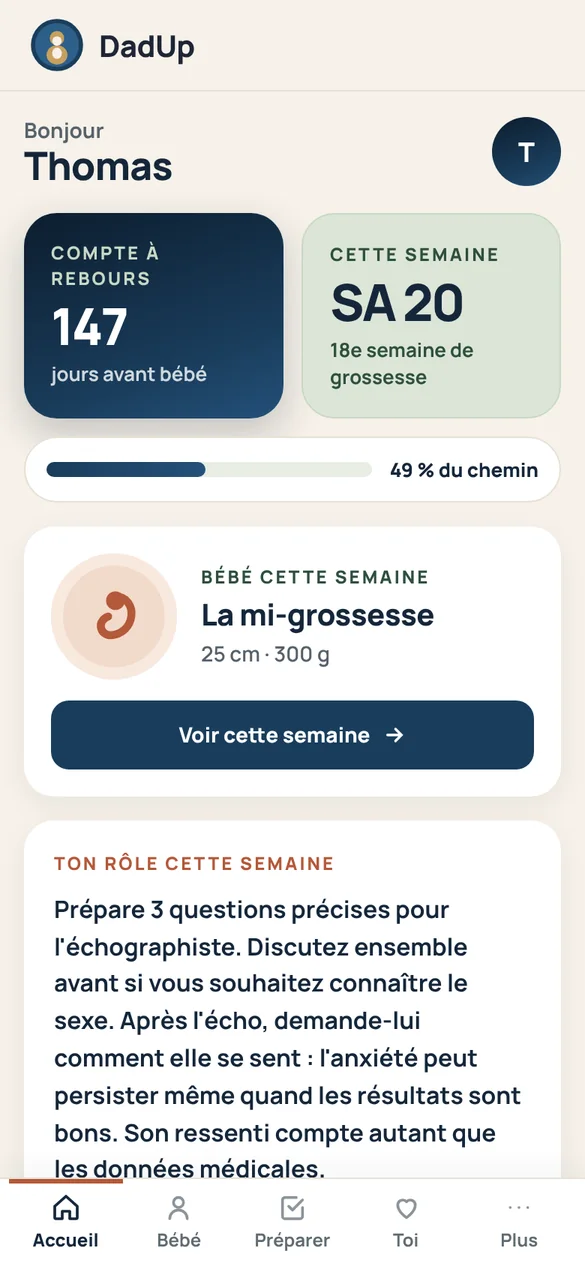
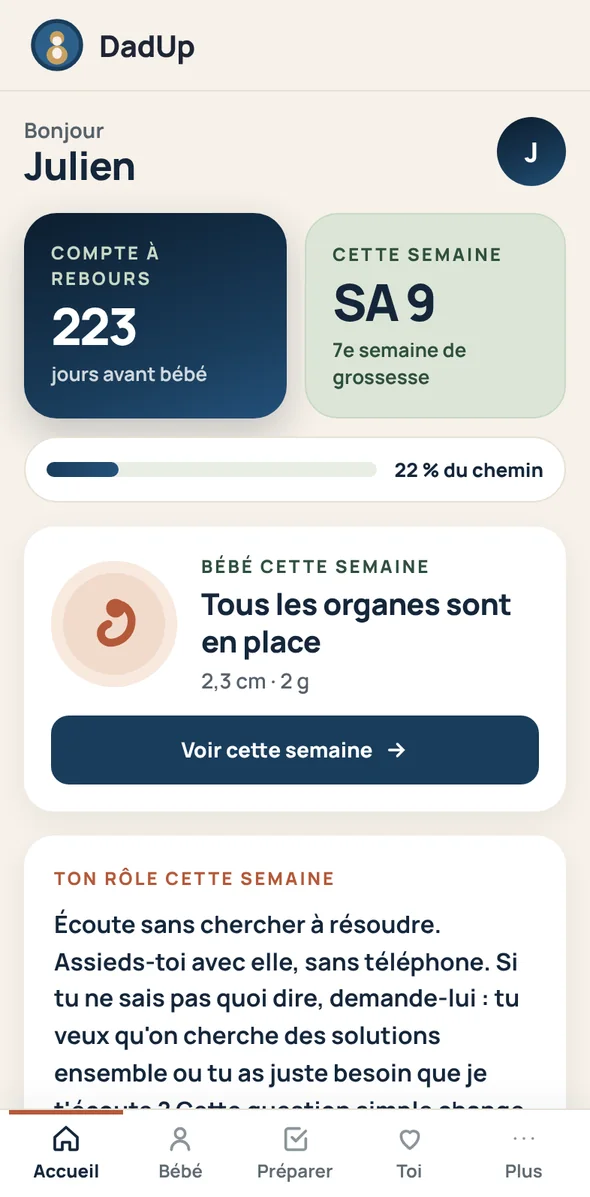
Site vitrine : plus de chaleur et téléphones réalistes
- haut de page : trait lumineux en forme de ventre de future maman (haut droit), cœur, petits pieds et étincelles dans le même style
- cartes « Ce que DadUp couvre » : icônes au trait terracotta
- TelephoneRealiste : cadre métallique rosé, Dynamic Island, barre d'état, boutons latéraux, barre d'accueil, reflet
- nouvelles captures (Julien, SA 9) au format écran sans barre d'état

Claude-Session: https://claude.ai/code/session_01MLuBW2nfphTeQ2XK1Ztss6

diff --git a/app/page.tsx b/app/page.tsx
@@ -1,6 +1,7 @@
 'use client';
 import CheckoutModal from '@/app/components/CheckoutModal';
 import { useState } from 'react';
+import TelephoneRealiste from '@/app/components/TelephoneRealiste';
 
 export default function Home() {
   const [menuOpen, setMenuOpen] = useState(false);
@@ -106,29 +107,60 @@ export default function Home() {
           .hero-chips{display:flex;flex-wrap:wrap;justify-content:center;gap:8px;margin:26px auto 0;max-width:860px;}
           .hero-chip{display:inline-flex;align-items:center;gap:8px;background:rgba(255,255,255,0.07);border:1px solid rgba(255,255,255,0.16);border-radius:99px;padding:8px 14px;color:#fff;font-size:13px;font-weight:700;}
           .hero-phones{position:relative;width:min(880px,100%);height:420px;margin:48px auto 0;}
-          .hero-phone{position:absolute;background:#0B1118;box-shadow:0 30px 60px rgba(0,0,0,0.35);}
-          .hero-phone img{display:block;width:100%;height:auto;}
-          .hp-c{left:50%;top:0;transform:translateX(-50%);width:270px;padding:10px;border-radius:52px;z-index:2;box-shadow:0 40px 80px rgba(0,0,0,0.45);}
-          .hp-c img{border-radius:43px;}
-          .hp-l,.hp-r{top:90px;width:236px;padding:9px;border-radius:46px;}
-          .hp-l img,.hp-r img{border-radius:38px;}
+          .hero-a > *{position:relative;z-index:1;}
+          .hero-a > .hero-deco{position:absolute;z-index:0;pointer-events:none;}
+          .hero-phones .hp{position:absolute;}
+          .hp-c{left:50%;top:0;transform:translateX(-50%);width:270px;z-index:2;}
+          .hp-l,.hp-r{top:90px;width:236px;}
           .hp-l{left:70px;transform:rotate(-7deg);}
           .hp-r{right:70px;transform:rotate(7deg);}
+          .deco-ventre{top:0;right:0;height:100%;width:min(38%,460px);}
+          .deco-coeur{top:120px;left:6%;width:56px;filter:drop-shadow(0 0 6px rgba(227,138,85,.75));overflow:visible;}
+          .deco-pieds{bottom:130px;left:8%;width:78px;filter:drop-shadow(0 0 5px rgba(227,138,85,.7));overflow:visible;}
+          .deco-etoiles{top:40px;left:22%;width:120px;}
           @media (max-width:768px){
             .hero-a{padding:44px 20px 0;}
             .hero-a h1{letter-spacing:-0.6px;}
             .hero-chips{gap:6px;margin-top:20px;}
             .hero-chip{font-size:12px;padding:6px 11px;}
             .hero-phones{height:300px;margin-top:36px;}
-            .hp-c{width:176px;padding:7px;border-radius:34px;}
-            .hp-c img{border-radius:28px;}
-            .hp-l,.hp-r{top:64px;width:146px;padding:6px;border-radius:30px;}
-            .hp-l img,.hp-r img{border-radius:25px;}
+            .hp-c{width:176px;}
+            .hp-l,.hp-r{top:64px;width:146px;}
             .hp-l{left:-6px;transform:rotate(-8deg);}
             .hp-r{right:-6px;transform:rotate(8deg);}
+            .deco-ventre{top:auto;bottom:0;height:46%;width:60%;opacity:.6;}
+            .deco-coeur,.deco-pieds,.deco-etoiles{display:none;}
           }
         `}</style>
         <div className="hero-a">
+          {/* Décor lumineux : ventre de future maman, cœur, petits pieds, étincelles */}
+          <svg className="hero-deco deco-ventre" viewBox="0 0 400 700" preserveAspectRatio="xMaxYMin meet" aria-hidden="true">
+            <defs>
+              <linearGradient id="dd-lueur" x1="0" y1="0" x2="0" y2="1">
+                <stop offset="0" stopColor="#F2B27E" stopOpacity="0" />
+                <stop offset="0.25" stopColor="#E38A55" />
+                <stop offset="0.6" stopColor="#F2B27E" />
+                <stop offset="1" stopColor="#B4593A" stopOpacity="0" />
+              </linearGradient>
+              <filter id="dd-flou" x="-50%" y="-20%" width="200%" height="140%"><feGaussianBlur stdDeviation="9" /></filter>
+            </defs>
+            <path d="M380 -10 C352 70 300 120 292 205 C286 262 250 290 214 352 C168 432 186 548 262 586 C310 610 330 650 336 712" fill="none" stroke="url(#dd-lueur)" strokeWidth="14" filter="url(#dd-flou)" opacity="0.7" />
+            <path d="M380 -10 C352 70 300 120 292 205 C286 262 250 290 214 352 C168 432 186 548 262 586 C310 610 330 650 336 712" fill="none" stroke="url(#dd-lueur)" strokeWidth="2.4" strokeLinecap="round" />
+          </svg>
+          <svg className="hero-deco deco-coeur" viewBox="0 0 48 44" aria-hidden="true">
+            <path d="M24 40S4 28 4 14A10 10 0 0 1 24 9a10 10 0 0 1 20 5c0 14-20 26-20 26z" fill="none" stroke="#F2B27E" strokeWidth="1.6" strokeLinejoin="round" opacity="0.85" />
+          </svg>
+          <svg className="hero-deco deco-pieds" viewBox="0 0 70 64" aria-hidden="true" fill="none" stroke="#F2B27E" strokeWidth="1.6" strokeLinecap="round" strokeLinejoin="round">
+            <path d="M15 50c-5 0-7.5-4.5-6.5-10.5C9.5 33 12.5 27 18 26.5c5-.5 7 3.5 6 8.5-.7 3.7-2.8 5.8-3 9.6-.2 3.4-2 5.4-6 5.4z" />
+            <circle cx="10.5" cy="20.5" r="2.1" /><circle cx="15.5" cy="17.6" r="1.8" /><circle cx="20" cy="17.4" r="1.6" /><circle cx="23.8" cy="19" r="1.4" /><circle cx="26.6" cy="21.8" r="1.2" />
+            <path d="M50 40c5 0 7.5-4.5 6.5-10.5C55.5 23 52.5 17 47 16.5c-5-.5-7 3.5-6 8.5.7 3.7 2.8 5.8 3 9.6.2 3.4 2 5.4 6 5.4z" />
+            <circle cx="54.5" cy="10.5" r="2.1" /><circle cx="49.5" cy="7.6" r="1.8" /><circle cx="45" cy="7.4" r="1.6" /><circle cx="41.2" cy="9" r="1.4" /><circle cx="38.4" cy="11.8" r="1.2" />
+          </svg>
+          <svg className="hero-deco deco-etoiles" viewBox="0 0 120 60" aria-hidden="true" fill="#F2B27E">
+            <path d="M18 14l1.6 4.4L24 20l-4.4 1.6L18 26l-1.6-4.4L12 20l4.4-1.6z" opacity="0.8" />
+            <circle cx="62" cy="40" r="1.6" opacity="0.6" /><circle cx="96" cy="12" r="1.3" opacity="0.5" />
+            <path d="M104 40l1 2.8 2.8 1-2.8 1-1 2.8-1-2.8-2.8-1 2.8-1z" opacity="0.6" />
+          </svg>
           <div style={{display:'inline-flex', alignItems:'center', gap:'8px', background:'rgba(157,176,154,0.18)', border:'1px solid rgba(157,176,154,0.45)', borderRadius:'20px', padding:'5px 14px', marginBottom:'22px'}}>
             <div style={{width:'6px', height:'6px', borderRadius:'50%', background:'#9DB09A'}}></div>
             <span style={{color:'#C9D8C4', fontSize:'12px', fontWeight:700, letterSpacing:'1px'}}>Conçu pour les futurs pères</span>
@@ -159,9 +191,9 @@ export default function Home() {
           </ul>
 
           <div className="hero-phones">
-            <div className="hero-phone hp-l"><img src="/apercu-bebe.webp" alt="Écran Bébé de DadUp : le développement de bébé semaine après semaine" width={585} height={1266} loading="lazy" /></div>
-            <div className="hero-phone hp-r"><img src="/apercu-jourj.webp" alt="Écran Jour J de DadUp : quand partir et qui appeler" width={585} height={1266} loading="lazy" /></div>
-            <div className="hero-phone hp-c"><img src="/apercu-accueil.webp" alt="Écran d'accueil de DadUp : compte à rebours, semaine de grossesse et bébé cette semaine" width={585} height={1266} fetchPriority="high" /></div>
+            <TelephoneRealiste className="hp hp-l" src="/apercu-bebe.webp" alt="Écran Bébé de DadUp : le développement de bébé semaine après semaine" />
+            <TelephoneRealiste className="hp hp-r" src="/apercu-jourj.webp" alt="Écran Jour J de DadUp : quand partir et qui appeler" />
+            <TelephoneRealiste className="hp hp-c" src="/apercu-accueil.webp" alt="Écran d'accueil de DadUp : compte à rebours, semaine de grossesse et bébé cette semaine" prioritaire />
           </div>
         </div>
       </section>
@@ -175,13 +207,18 @@ export default function Home() {
           </div>
           <div className="stats-4col">
             {[
-              {border:'rgba(180,220,255,0.25)', label:'La grossesse', lc:'#7ab8f0', title:'De la 3e à la 41e semaine', tc:'#B8DCFF', desc:"Chaque semaine expliquée côté papa : développement de bébé, ton rôle, ce qu'elle vit.", dc:'rgba(180,220,255,0.6)'},
-              {border:'rgba(150,240,200,0.2)', label:"L'après-naissance", lc:'#5dd4a0', title:"Jusqu'au 1er anniversaire de bébé", tc:'#96F0C8', desc:'Les premiers mois, le développement de bébé, le baby blues, le couple. Tout est inclus.', dc:'rgba(150,240,200,0.6)'},
-              {border:'rgba(200,170,255,0.2)', label:'Calendrier médical', lc:'#a888f0', title:'Chaque consultation préparée', tc:'#C8AAFF', desc:"Ce qu'on cherche à chaque rendez-vous, les bonnes questions à poser, comment être vraiment présent.", dc:'rgba(200,170,255,0.6)'},
-              {border:'rgba(255,240,160,0.25)', label:'Paiement unique', lc:'#C9D8C4', title:'Sans abonnement', tc:'#FFF0A0', desc:"Tu paies une fois, tu accèdes jusqu'au premier anniversaire de bébé. Pas de surprise.", dc:'rgba(255,240,160,0.6)'},
+              {border:'rgba(180,220,255,0.25)', ic:'M12 21v-8M12 13c0-4.4 3.2-7.6 8-7.6 0 4.4-3.2 7.6-8 7.6zM12 15.5c0-3.6-2.6-6.3-7-6.3 0 3.6 2.6 6.3 7 6.3z', label:'La grossesse', lc:'#7ab8f0', title:'De la 3e à la 41e semaine', tc:'#B8DCFF', desc:"Chaque semaine expliquée côté papa : développement de bébé, ton rôle, ce qu'elle vit.", dc:'rgba(180,220,255,0.6)'},
+              {border:'rgba(150,240,200,0.2)', ic:'M12 20s-7-4.5-7-10a4 4 0 0 1 7-2.6A4 4 0 0 1 19 10c0 5.5-7 10-7 10z', label:"L'après-naissance", lc:'#5dd4a0', title:"Jusqu'au 1er anniversaire de bébé", tc:'#96F0C8', desc:'Les premiers mois, le développement de bébé, le baby blues, le couple. Tout est inclus.', dc:'rgba(150,240,200,0.6)'},
+              {border:'rgba(200,170,255,0.2)', ic:'M4 7a2 2 0 0 1 2-2h12a2 2 0 0 1 2 2v12a2 2 0 0 1-2 2H6a2 2 0 0 1-2-2zM4 10h16M9 3v4M15 3v4', label:'Calendrier médical', lc:'#a888f0', title:'Chaque consultation préparée', tc:'#C8AAFF', desc:"Ce qu'on cherche à chaque rendez-vous, les bonnes questions à poser, comment être vraiment présent.", dc:'rgba(200,170,255,0.6)'},
+              {border:'rgba(255,240,160,0.25)', ic:'M12 21a9 9 0 1 0 0-18 9 9 0 0 0 0 18zM8.5 12.2l2.4 2.4 4.6-5.1', label:'Paiement unique', lc:'#C9D8C4', title:'Sans abonnement', tc:'#FFF0A0', desc:"Tu paies une fois, tu accèdes jusqu'au premier anniversaire de bébé. Pas de surprise.", dc:'rgba(255,240,160,0.6)'},
             ].map((s,i) => (
               <div key={i} style={{background:'#ffffff', borderRadius:'20px', padding:'28px 32px', boxShadow:'0 8px 32px rgba(0,0,0,0.08)', border:'none'}}>
-                <p style={{color:'#9C4A2E', fontSize:'12px', fontWeight:700, letterSpacing:'2px', textTransform:'uppercase' as const, margin:'0 0 10px'}}>{s.label}</p>
+                <div style={{display:'flex', alignItems:'center', gap:'12px', margin:'0 0 12px'}}>
+                  <span style={{width:'42px', height:'42px', borderRadius:'50%', background:'#F8E9DF', boxShadow:'0 0 0 6px rgba(242,218,203,0.35)', display:'flex', alignItems:'center', justifyContent:'center', flexShrink:0}}>
+                    <svg width="22" height="22" viewBox="0 0 24 24" fill="none" stroke="#B4593A" strokeWidth="1.8" strokeLinecap="round" strokeLinejoin="round" aria-hidden="true"><path d={s.ic} /></svg>
+                  </span>
+                  <p style={{color:'#9C4A2E', fontSize:'12px', fontWeight:700, letterSpacing:'2px', textTransform:'uppercase' as const, margin:0}}>{s.label}</p>
+                </div>
                 <p style={{color:'#15263A', fontSize:'15px', fontWeight:700, margin:'0 0 8px'}}>{s.title}</p>
                 <p style={{color:'#56616B', fontSize:'13px', margin:0, lineHeight:1.65}}>{s.desc}</p>
               </div>

diff --git a/app/components/TelephoneRealiste.tsx b/app/components/TelephoneRealiste.tsx
@@ -1,0 +1,61 @@
+// ── Téléphone réaliste (style iPhone récent) pour présenter de vraies captures de l'app ──
+// La taille se règle par la largeur du conteneur (className) ; tout le reste est proportionnel (unités cqw).
+// Les captures doivent faire 393 × 798 (écran sans la barre d'état).
+
+type Props = { src: string; alt: string; className?: string; heure?: string; prioritaire?: boolean };
+
+export default function TelephoneRealiste({ src, alt, className = '', heure = '9:41', prioritaire = false }: Props) {
+  return (
+    <div className={`tel ${className}`}>
+      <style>{CSS}</style>
+      <span className="tel-btn tel-action" aria-hidden="true" />
+      <span className="tel-btn tel-vol1" aria-hidden="true" />
+      <span className="tel-btn tel-vol2" aria-hidden="true" />
+      <span className="tel-btn tel-power" aria-hidden="true" />
+      <div className="tel-cadre">
+        <div className="tel-bord">
+          <div className="tel-ecran">
+            <div className="tel-statut" aria-hidden="true">
+              <span className="tel-heure">{heure}</span>
+              <span className="tel-icones">
+                <svg viewBox="0 0 18 12" className="tel-ic"><rect x="0" y="8" width="3" height="4" rx="0.8" /><rect x="5" y="5.5" width="3" height="6.5" rx="0.8" /><rect x="10" y="3" width="3" height="9" rx="0.8" /><rect x="15" y="0" width="3" height="12" rx="0.8" /></svg>
+                <svg viewBox="0 0 16 12" className="tel-ic"><path d="M8 11.5 5.6 9a3.4 3.4 0 0 1 4.8 0zM3.2 6.6a6.8 6.8 0 0 1 9.6 0l-1.4 1.4a4.8 4.8 0 0 0-6.8 0zM.8 4.2a10.2 10.2 0 0 1 14.4 0l-1.4 1.4a8.2 8.2 0 0 0-11.6 0z" /></svg>
+                <svg viewBox="0 0 27 13" className="tel-ic tel-batt"><rect x="0.5" y="0.5" width="23" height="12" rx="3.5" fill="none" stroke="currentColor" opacity="0.45" /><rect x="2.5" y="2.5" width="16" height="8" rx="2" /><path d="M25 4.5v4a2 2 0 0 0 0-4z" opacity="0.45" /></svg>
+              </span>
+            </div>
+            <span className="tel-ilot" aria-hidden="true" />
+            <img src={src} alt={alt} width={393} height={798} loading={prioritaire ? 'eager' : 'lazy'} decoding="async" {...(prioritaire ? { fetchPriority: 'high' as const } : {})} />
+            <span className="tel-reflet" aria-hidden="true" />
+            <span className="tel-indicateur" aria-hidden="true" />
+          </div>
+        </div>
+      </div>
+    </div>
+  );
+}
+
+const CSS = `
+.tel{position:relative;container-type:inline-size;}
+.tel-cadre{position:relative;border-radius:16.5cqw;padding:1.3cqw;
+  background:linear-gradient(145deg,#e9cfc5 0%,#c79a8d 22%,#f3dfd7 45%,#b98a7d 70%,#dcb7aa 100%);
+  box-shadow:0 0 0 0.35cqw rgba(90,50,40,.35) inset, 0 3cqw 8cqw rgba(0,0,0,.38), 0 1cqw 2cqw rgba(0,0,0,.25);}
+.tel-bord{border-radius:15.3cqw;padding:3.1cqw;background:#0b0b0d;box-shadow:0 0 0 0.25cqw rgba(255,255,255,.08) inset;}
+.tel-ecran{position:relative;overflow:hidden;border-radius:12.4cqw;background:#F6F1E9;container-type:inline-size;}
+.tel-ecran img{display:block;width:100%;height:auto;}
+.tel-statut{height:13.7cqw;display:flex;align-items:center;justify-content:space-between;padding:1.6cqw 7.5cqw 0 9.5cqw;color:#15263A;
+  font-family:-apple-system,BlinkMacSystemFont,'SF Pro Text','Helvetica Neue',sans-serif;}
+.tel-heure{font-size:4.3cqw;font-weight:600;letter-spacing:-0.1cqw;}
+.tel-icones{display:flex;align-items:center;gap:1.5cqw;}
+.tel-ic{height:3cqw;width:auto;fill:currentColor;color:#15263A;}
+.tel-batt{height:3.2cqw;}
+.tel-ilot{position:absolute;top:2.9cqw;left:50%;transform:translateX(-50%);width:31cqw;height:9.2cqw;border-radius:99px;background:#000;}
+.tel-ilot::after{content:'';position:absolute;right:3.2cqw;top:50%;transform:translateY(-50%);width:2.6cqw;height:2.6cqw;border-radius:50%;
+  background:radial-gradient(circle at 35% 35%,#2b3a55,#0a0d14 60%);}
+.tel-reflet{position:absolute;inset:0;pointer-events:none;background:linear-gradient(120deg,rgba(255,255,255,.16) 0%,rgba(255,255,255,0) 32%);}
+.tel-indicateur{position:absolute;left:50%;bottom:2.2cqw;transform:translateX(-50%);width:35cqw;height:1.35cqw;border-radius:99px;background:rgba(17,17,17,.82);}
+.tel-btn{position:absolute;width:1.1cqw;border-radius:1cqw;background:linear-gradient(90deg,#a87c70,#e2c3b8);}
+.tel-action{left:-0.7cqw;top:21cqw;height:7.5cqw;}
+.tel-vol1{left:-0.7cqw;top:33cqw;height:13cqw;}
+.tel-vol2{left:-0.7cqw;top:49cqw;height:13cqw;}
+.tel-power{right:-0.7cqw;top:38cqw;height:20cqw;background:linear-gradient(270deg,#a87c70,#e2c3b8);}
+`;
